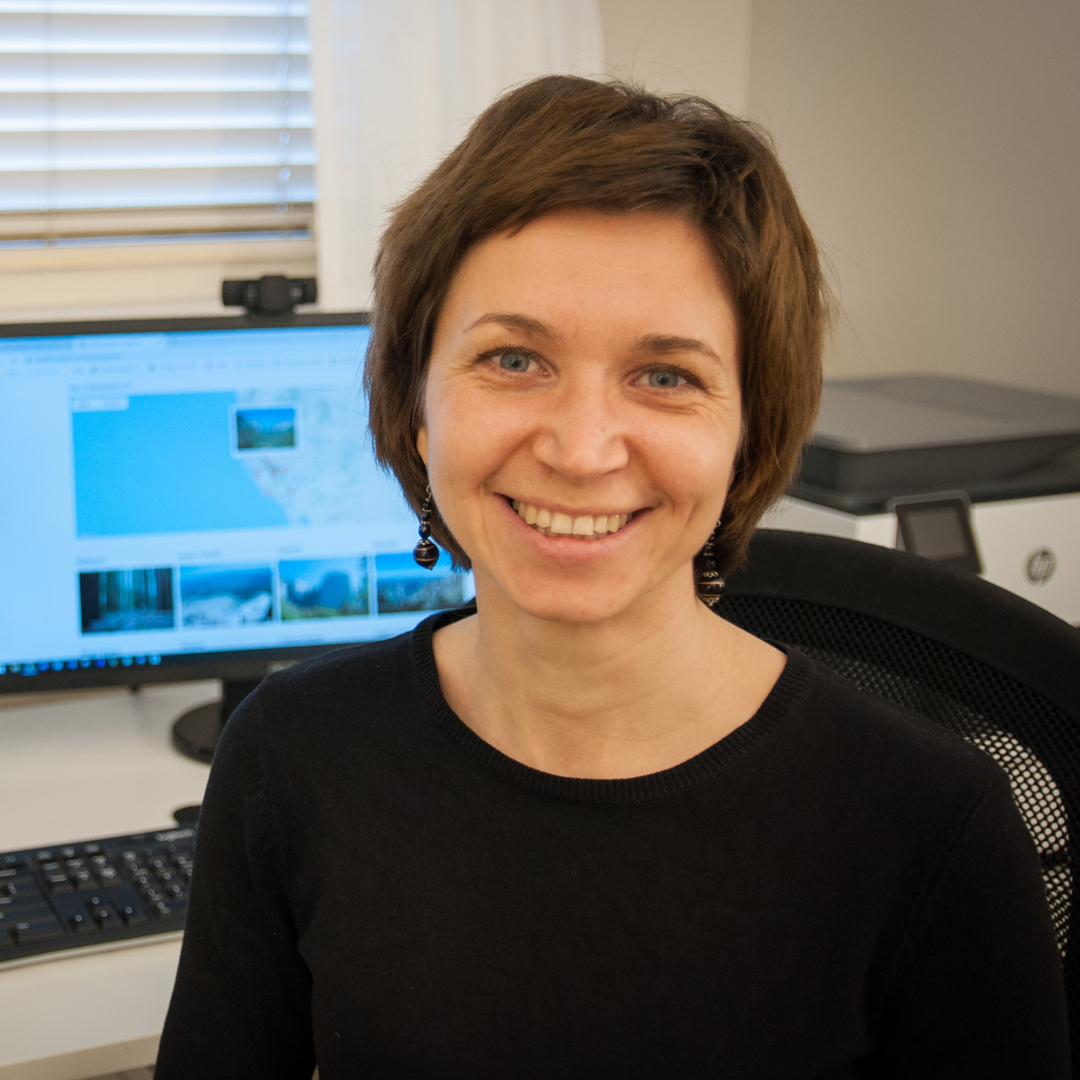
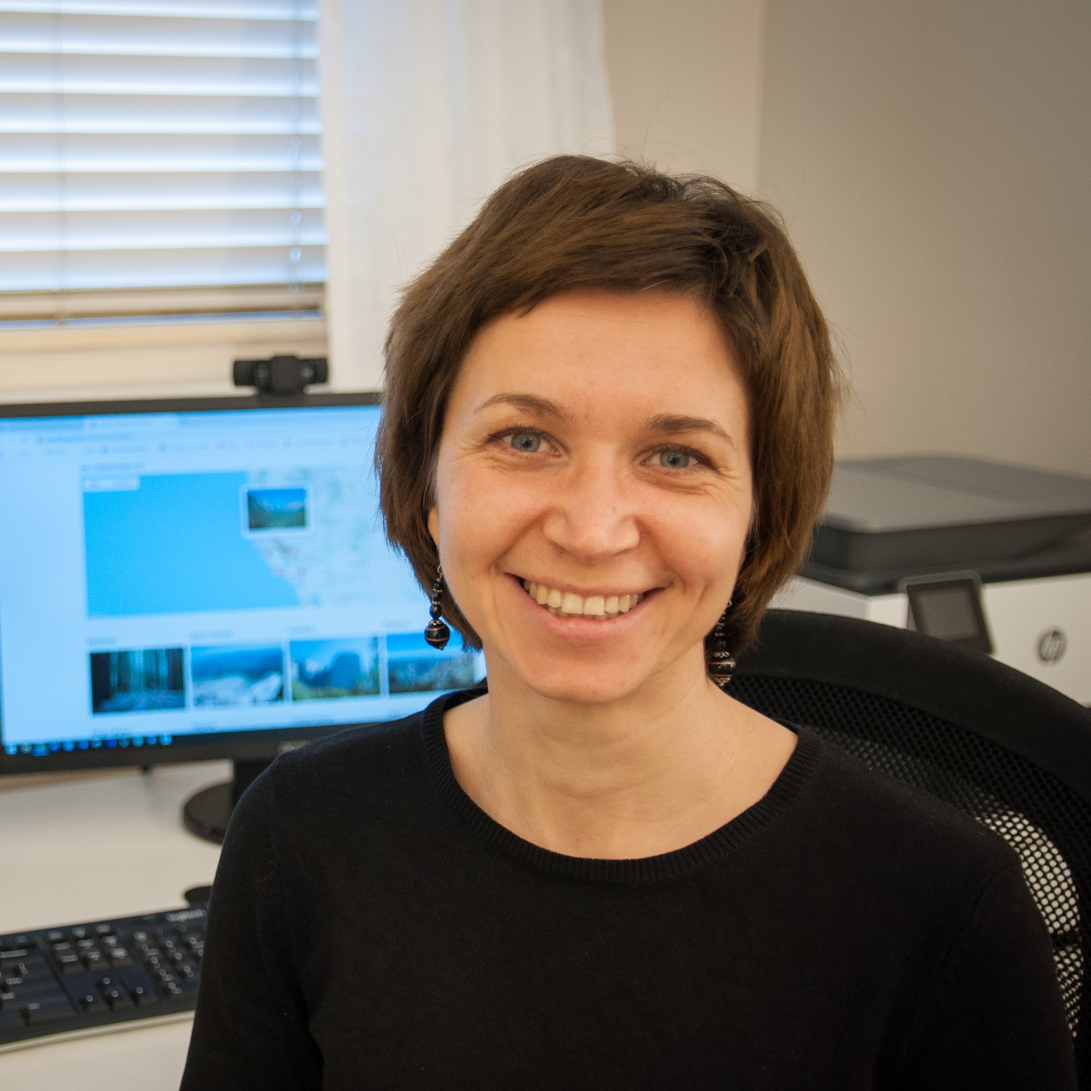
Crop the intro picture and add more margins for xs, sm

diff --git a/src/components/ProjectsSection.js b/src/components/ProjectsSection.js
@@ -61,13 +61,13 @@ const ProjectsSection = () => {
                                         <p className="mb-3 card-technology">{item.technology}</p>
                                     </Card.Text>
                                     <Button
-                                        className="m-1 mb-2"
+                                        className="m-1 mb-3"
                                         size="sm"
                                         variant="outline-dark"
                                         href={item.demoLink}
                                         target="_blank" rel="noopener noreferrer">Demo</Button>
                                     <Button
-                                        className="m-1 mb-2"
+                                        className="m-1 mb-3"
                                         size="sm"
                                         variant="outline-dark"
                                         href={item.codeLink}
@@ -76,7 +76,7 @@ const ProjectsSection = () => {
                                         Code<ImGithub className="icon-viewcode" />
                                     </Button>
                                     <Button
-                                        className="m-1 mb-2"
+                                        className="m-1 mb-3"
                                         size="sm"
                                         variant="outline-dark"
                                         onClick={() => {

diff --git a/src/index.css b/src/index.css
@@ -156,7 +156,7 @@ a:hover .media-icon-contact, a:hover .icon-contact-small {
     font-size: 16px;
   }
   section {
-    padding: 3em 0.5em;
+    padding: 3em 1em;
   }
   .divider {
     width: 30%;
@@ -190,7 +190,7 @@ a:hover .media-icon-contact, a:hover .icon-contact-small {
     font-size: 16px;
   }
   section {
-    padding: 3em 0.5em;
+    padding: 3em 1em;
   }
   .divider {
     width: 30%;
